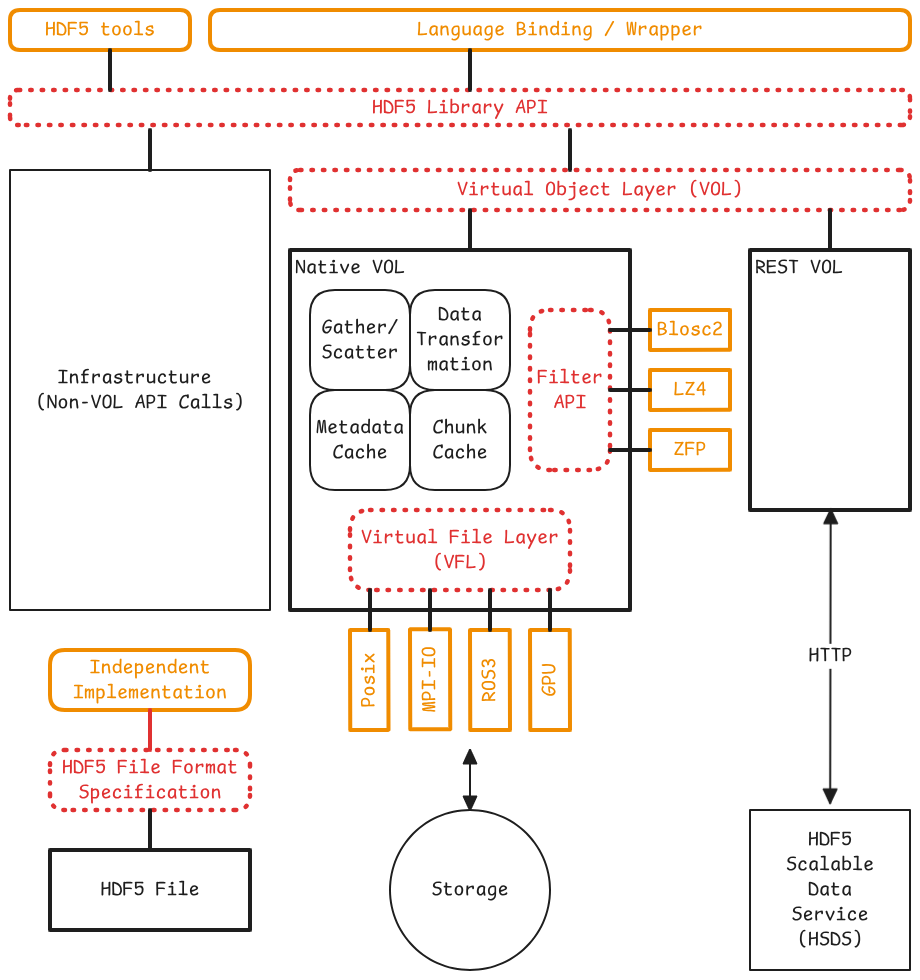
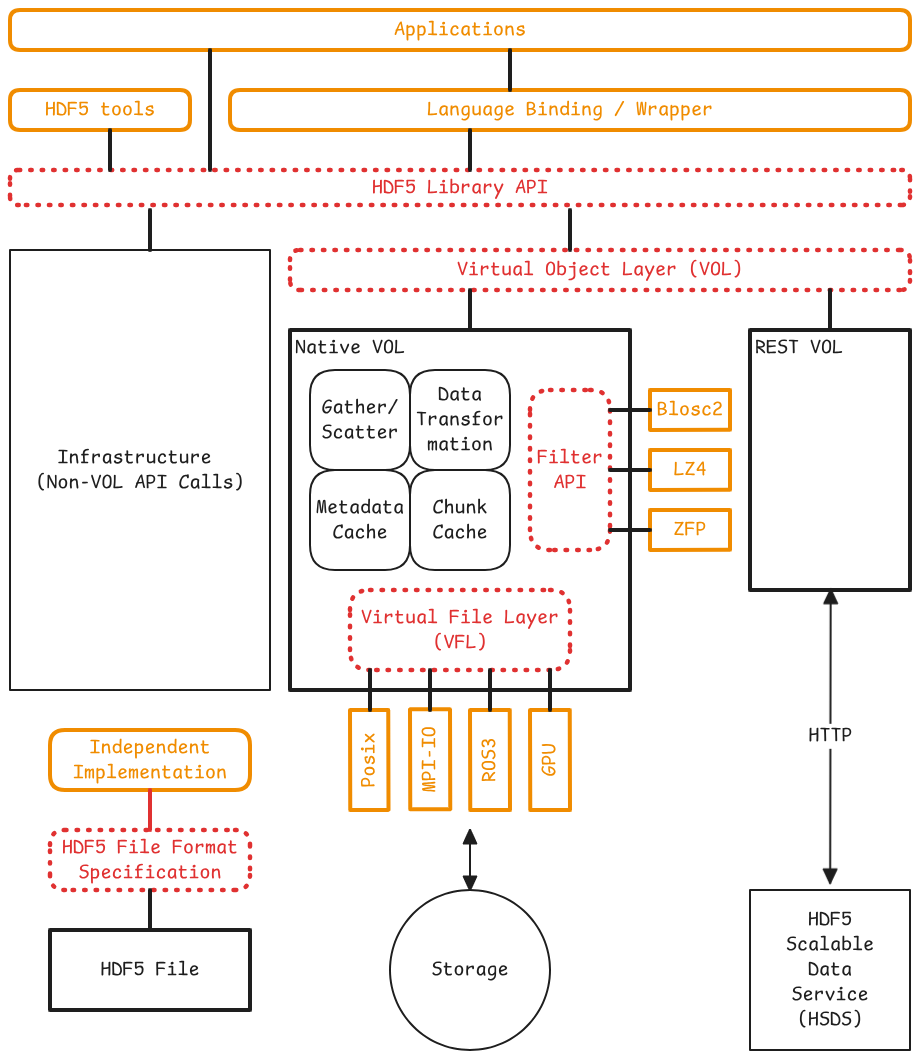
Updated figure.

diff --git a/sections/introduction.tex b/sections/introduction.tex
@@ -29,7 +29,7 @@ Out of scope:
 \begin{figure}[h!]
     \centering
     \includegraphics[width=\textwidth]{images/HDF5_Surfaces.png}
-    \caption{HDF5 vulnerability surfaces (APIs: red -- Supply chain: orange)}
+    \caption{HDF5 vulnerability sites (Interfaces: red -- Supply chain: orange)}
 \end{figure}
 
 \subsection{Problem Statement}